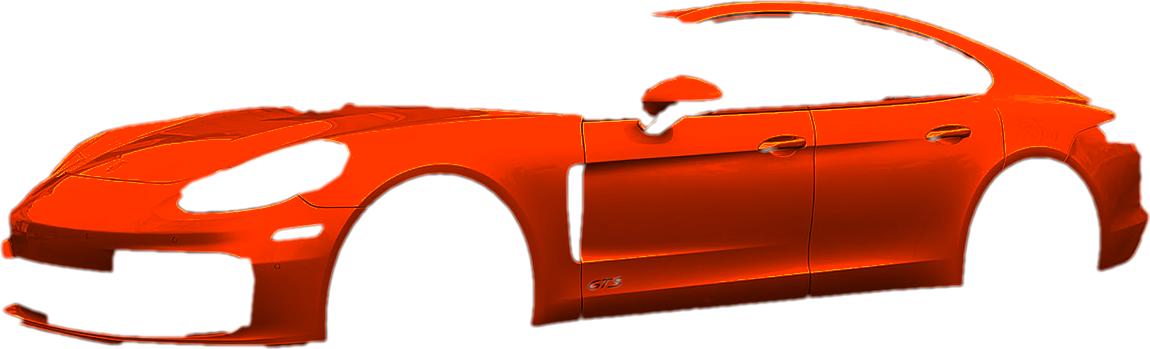
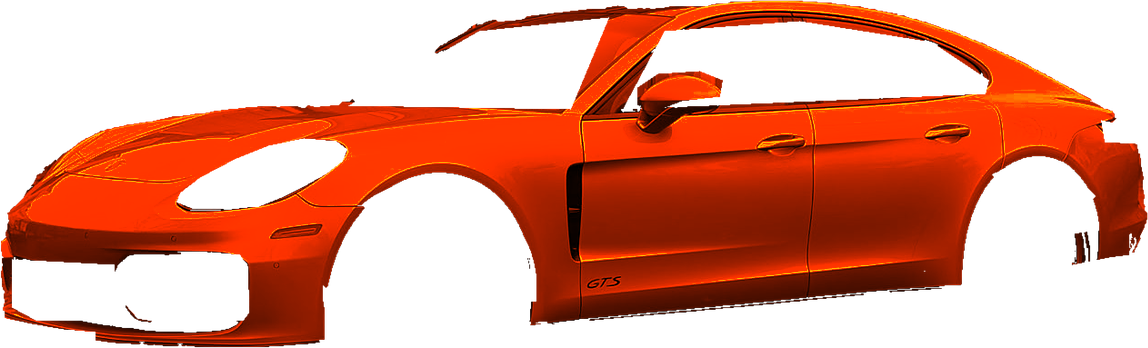
Wraps: crisp edge-snapped masks with traced trim, add Truck, rename Sedan; letterbox-fit photo stage
Claude-Session: https://claude.ai/code/session_01TC8hHsQGEZ2GaHBM8k3cGS

diff --git a/main.js b/main.js
@@ -36,7 +36,7 @@ function arrowNav(buttons, select) {
 // box = where the shade layer sits in the photo: [x, y, width, height]; size defaults to 1200x900.
 // Bump ASSET_V whenever a photo or shade layer changes, so phones never pair a cached old
 // photo with a new shade layer (that is what makes the repaint look shifted).
-const ASSET_V = '20261109g';
+const ASSET_V = '20261109i';
 const toLin = v => Math.pow(v / 255, 2.2);
 const hexLin = h => { const n = parseInt(h.replace('#', ''), 16); return [n >> 16 & 255, n >> 8 & 255, n & 255].map(toLin); };
 const FIN = { gloss: [1, 1], satin: [0.8, 0.4], matte: [0.6, 0.12] };   // lighting contrast, shine kept
@@ -64,9 +64,21 @@ function createPainter({ view, img, canvas, stage, vehicles, initial, color }) {
     canvas.width = t.width; canvas.height = t.height;
     out = ctx.createImageData(t.width, t.height);
   }
+  let cur_v = null;
+  // fit the photo stage inside the frame at the photo's own shape (letterboxed, never cropped),
+  // so the paint layer always sits exactly on the photo
+  function fit() {
+    if (!stage || !cur_v) return;
+    const [W, H] = cur_v.size || [1200, 900], vw = view.clientWidth, vh = view.clientHeight;
+    if (!vw || !vh) return;
+    const pr = W / H, vr = vw / vh;
+    stage.style.width = (pr > vr ? 100 : pr / vr * 100) + '%';
+    stage.style.height = (pr > vr ? vr / pr * 100 : 100) + '%';
+  }
+  if (window.ResizeObserver) new ResizeObserver(fit).observe(view);
   function place(v) {
     const [x, y, w, h] = v.box, [W, H] = v.size || [1200, 900];
-    if (stage) stage.style.setProperty('--ar', `${W} / ${H}`);
+    cur_v = v; fit();
     img.width = W; img.height = H;
     Object.assign(canvas.style, { left: x / W * 100 + '%', top: y / H * 100 + '%', width: w / W * 100 + '%', height: h / H * 100 + '%' });
   }
@@ -198,8 +210,9 @@ const wrapPaint = createPainter({
   view: document.getElementById('wrap-view'), img: document.getElementById('wrap-img'), canvas: document.getElementById('wrap-paint'),
   stage: document.getElementById('wrap-stage'), initial: 'sedan', color: '#C8102E',
   vehicles: {
-    sedan: { img: asset('wrap-panamera.webp'), shade: asset('wrap-panamera-shade.png'), box: [18, 341, 1150, 349], alt: 'Porsche sport sedan with its body wrapped in the selected color' },
-    suv:   { img: asset('wrap-cayenne.webp'),  shade: asset('wrap-cayenne-shade.png'),  box: [0, 316, 1194, 392], alt: 'Porsche SUV coupe with its body wrapped in the selected color' }
+    sedan: { img: asset('wrap-panamera.webp'), shade: asset('wrap-panamera-shade.png'), box: [19, 342, 1148, 348], alt: 'Sedan with its body wrapped in the selected color' },
+    suv:   { img: asset('wrap-cayenne.webp'),  shade: asset('wrap-cayenne-shade.png'),  box: [0, 317, 1193, 395], alt: 'SUV with its body wrapped in the selected color' },
+    truck: { img: asset('wrap-truck.webp'),    shade: asset('wrap-truck-shade.png'),    box: [80, 242, 1163, 296], size: [1320, 668], alt: 'Pickup truck with its body wrapped in the selected color' }
   }
 });
 wirePickers(document.getElementById('wraps'), wrapPaint);

diff --git a/index.html b/index.html
@@ -13,7 +13,7 @@
 <meta name="theme-color" content="#1D2125">
 <link rel="icon" href="assets/img/favicon.png">
 <link rel="preload" href="assets/fonts/michroma-400.woff2" as="font" type="font/woff2" crossorigin>
-<link rel="stylesheet" href="styles.css?v=202611091850">
+<link rel="stylesheet" href="styles.css?v=202611091920">
 <script type="application/ld+json">
 {
   "@context": "https://schema.org",
@@ -108,7 +108,7 @@
       <div class="wrap-tool">
         <div class="caliper-view wrap-view" id="wrap-view">
           <div class="cv-stage" id="wrap-stage">
-            <img id="wrap-img" src="assets/img/wrap-panamera.webp?v=20261109g" alt="Porsche sport sedan with its body wrapped in the selected color" width="1200" height="900" loading="lazy">
+            <img id="wrap-img" src="assets/img/wrap-panamera.webp?v=20261109i" alt="Sedan with its body wrapped in the selected color" width="1200" height="900" loading="lazy">
             <canvas id="wrap-paint" width="1149" height="342" aria-hidden="true"></canvas>
           </div>
           <p class="cv-photo-note">Real car, rewrapped live</p>
@@ -117,8 +117,9 @@
           <div>
             <p class="picker-label" id="wrap-vehicle-label">Vehicle</p>
             <div class="vehicle-picker" role="radiogroup" aria-labelledby="wrap-vehicle-label">
-              <button role="radio" aria-checked="true" data-vehicle="sedan">Sport sedan</button>
+              <button role="radio" aria-checked="true" data-vehicle="sedan">Sedan</button>
               <button role="radio" aria-checked="false" data-vehicle="suv">SUV</button>
+              <button role="radio" aria-checked="false" data-vehicle="truck">Truck</button>
             </div>
           </div>
           <div>
@@ -155,7 +156,7 @@
       <div class="caliper-view" id="caliper-view" data-mode="photo">
         <canvas id="caliper-canvas" tabindex="0" role="img" aria-label="3D model of a wheel and brake caliper in the selected color. Drag, or use the arrow keys, to change the angle."></canvas>
         <div class="cv-stage" id="cv-stage">
-          <img id="caliper-img" src="assets/img/caliper-sports.webp?v=20261109g" alt="Black wheel on a red sports car" width="1200" height="900" loading="lazy">
+          <img id="caliper-img" src="assets/img/caliper-sports.webp?v=20261109i" alt="Black wheel on a red sports car" width="1200" height="900" loading="lazy">
           <canvas id="caliper-paint" width="193" height="347" aria-hidden="true"></canvas>
         </div>
         <p class="cv-hint" aria-hidden="true"><span class="cv-hint-icon"></span>Drag to rotate</p>
@@ -404,6 +405,6 @@
 </footer>
 
 <script src="caliper-3d.js?v=202611091725" defer></script>
-<script src="main.js?v=202611091900" defer></script>
+<script src="main.js?v=202611091930" defer></script>
 </body>
 </html>

diff --git a/styles.css b/styles.css
@@ -198,7 +198,7 @@ p { margin: 0 0 1em; }
 .caliper-view.gl-ready[data-mode="3d"] canvas { display: block; }
 .caliper-view.gl-ready[data-mode="3d"] .cv-stage { display: none; }
 /* Photo stage: keeps each photo at its own shape, centred in the frame */
-.cv-stage { position: absolute; top: 0; bottom: 0; left: 50%; transform: translateX(-50%); height: 100%; max-width: 100%; aspect-ratio: var(--ar, 4 / 3); }
+.cv-stage { position: absolute; top: 50%; left: 50%; transform: translate(-50%, -50%); width: 100%; height: 100%; }
 .cv-stage img { position: absolute; inset: 0; width: 100%; height: 100%; object-fit: cover; }
 .cv-hint, .cv-mode, .cv-angles, .cv-photo-note { display: none; }
 .caliper-view.gl-ready .cv-mode { display: flex; }
